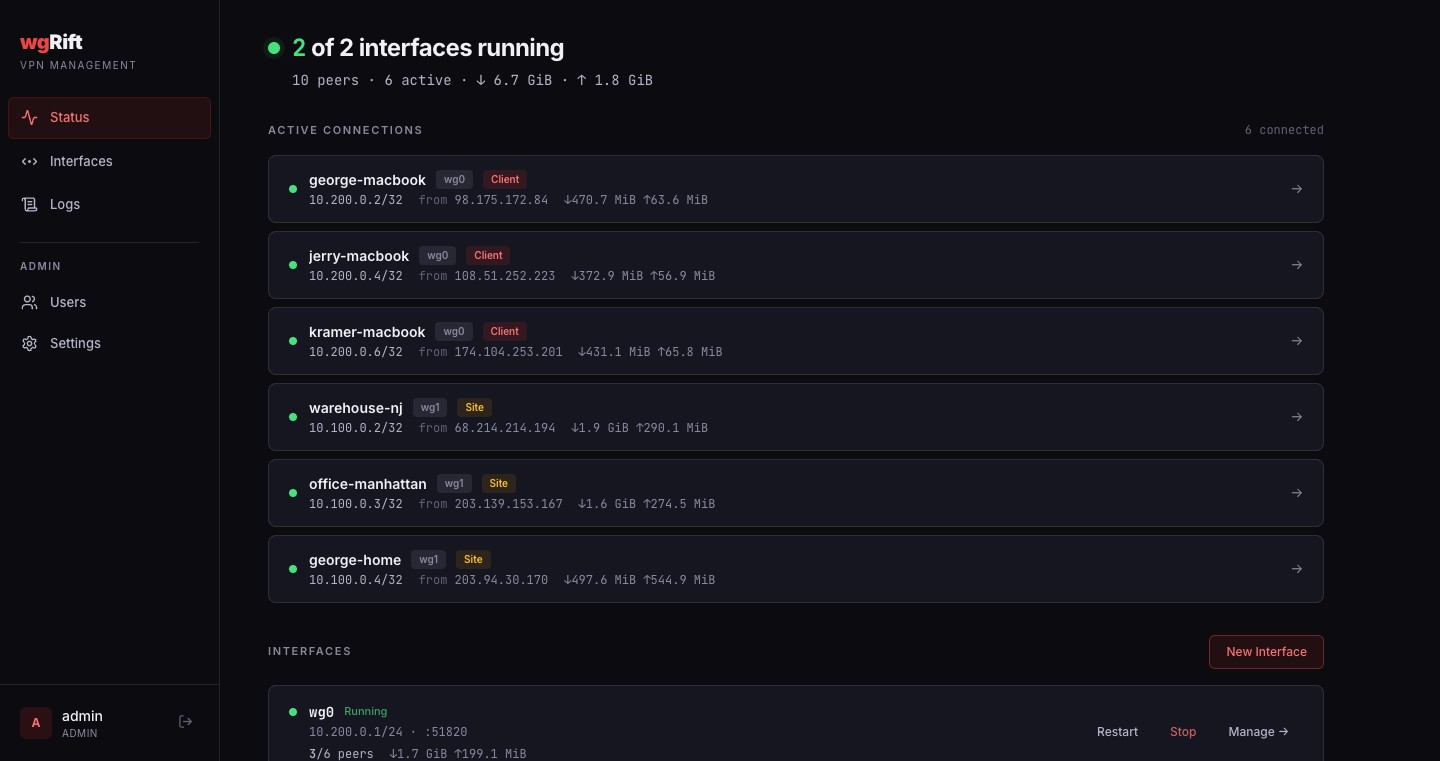
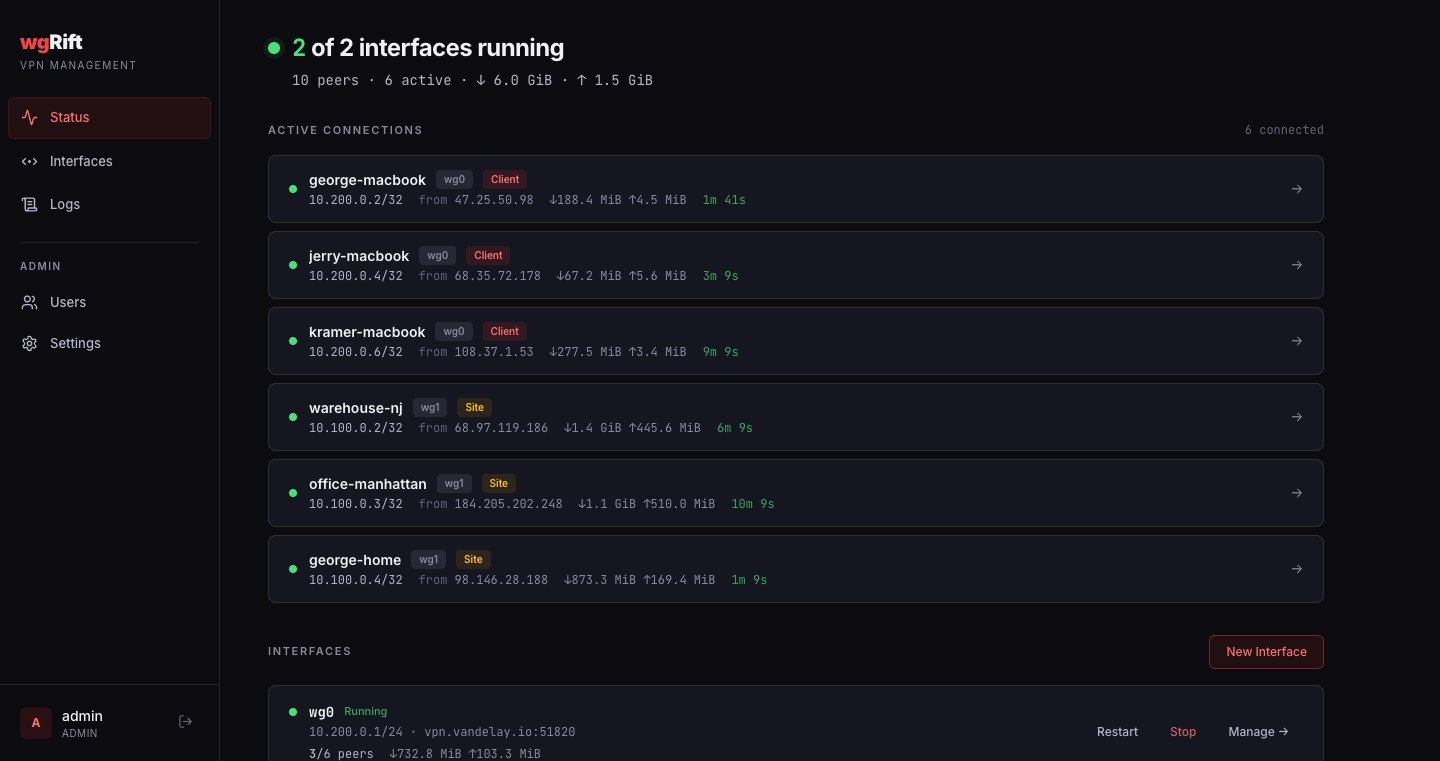
Update screenshots to reflect recent UI improvements
Regenerate all screenshots to capture uptime counters, IP count badges,
and other recent UI additions. Add settings page screenshot and expand
README gallery from 2x2 to 3x2 with settings and mobile views. List
new features (connection uptime, email alerts, SMTP config) in README.
Move screenshot task to port 18080 to avoid conflicts.

diff --git a/magefiles/screenshots.go b/magefiles/screenshots.go
@@ -21,9 +21,10 @@ import (
 )
 
 const (
-	screenshotDir = "docs/screenshots"
-	baseURL       = "http://localhost:8080"
-	wasmLoadWait  = 3 * time.Second
+	screenshotDir  = "docs/screenshots"
+	screenshotPort = "18080"
+	baseURL        = "http://localhost:" + screenshotPort
+	wasmLoadWait   = 3 * time.Second
 )
 
 // Screenshots builds the project, starts a demo server, and captures UI screenshots.
@@ -37,8 +38,16 @@ func Screenshots() error {
 		return fmt.Errorf("creating screenshot dir: %w", err)
 	}
 
+	// Write temporary config to use a non-default port
+	cfgContent := fmt.Sprintf("server:\n  listen: \"0.0.0.0:%s\"\n", screenshotPort)
+	cfgPath := "wgrift-screenshots.yaml"
+	if err := os.WriteFile(cfgPath, []byte(cfgContent), 0o644); err != nil {
+		return fmt.Errorf("writing temp config: %w", err)
+	}
+	defer os.Remove(cfgPath)
+
 	// Start demo server
-	cmd := exec.Command("./bin/wgrift", "serve")
+	cmd := exec.Command("./bin/wgrift", "serve", "--config", cfgPath)
 	cmd.Env = append(os.Environ(),
 		"WGRIFT_MASTER_KEY=dev-master-key",
 		"WGRIFT_DEMO_MODE=true",
@@ -187,7 +196,19 @@ func captureScreenshots() error {
 		return fmt.Errorf("logs screenshot: %w", err)
 	}
 
-	// 8. Mobile view
+	// 8. Settings
+	log.Println("Capturing settings page...")
+	if err := chromedp.Run(ctx,
+		chromedp.Navigate(baseURL+"/settings"),
+		chromedp.Sleep(wasmLoadWait),
+	); err != nil {
+		return fmt.Errorf("settings: %w", err)
+	}
+	if err := screenshotCurrent(ctx, "settings.png"); err != nil {
+		return fmt.Errorf("settings screenshot: %w", err)
+	}
+
+	// 9. Mobile view
 	log.Println("Capturing mobile view...")
 	if err := chromedp.Run(ctx,
 		emulation.SetDeviceMetricsOverride(390, 844, 2, true),

diff --git a/README.md b/README.md
@@ -8,9 +8,13 @@ A self-hosted WireGuard VPN management platform. Single binary with embedded web
 |:---:|:---:|
 | ![Dashboard](docs/screenshots/dashboard.png) | ![Interface Detail](docs/screenshots/interface-detail.png) |
 
-| Peer Config & QR | Connection Logs |
+| Peer Config & QR | Settings |
 |:---:|:---:|
-| ![Peer Config](docs/screenshots/peer-config.png) | ![Connection Logs](docs/screenshots/logs.png) |
+| ![Peer Config](docs/screenshots/peer-config.png) | ![Settings](docs/screenshots/settings.png) |
+
+| Connection Logs | Mobile |
+|:---:|:---:|
+| ![Connection Logs](docs/screenshots/logs.png) | ![Mobile](docs/screenshots/mobile.png) |
 
 ## Features
 
@@ -20,6 +24,9 @@ A self-hosted WireGuard VPN management platform. Single binary with embedded web
 - **Peer Management** — Add/edit/enable/disable peers with auto-generated keys and next available IP
 - **Peer Config & QR** — View, copy, or download client configs; scan QR codes for mobile setup
 - **Connection Logs** — Real-time connection/disconnection tracking per interface
+- **Connection Uptime** — Live per-peer uptime counters on dashboard and interface views
+- **Email Alerts** — Per-peer connect/disconnect email notifications with configurable recipients
+- **SMTP Configuration** — Built-in SMTP settings management with test email support
 - **SSO / OIDC** — OpenID Connect authentication with multi-provider support, JIT user provisioning, and role mapping
 - **User Management** — Multi-user with admin/viewer roles
 - **Mobile Responsive** — Slide-out nav, responsive layouts for all views
